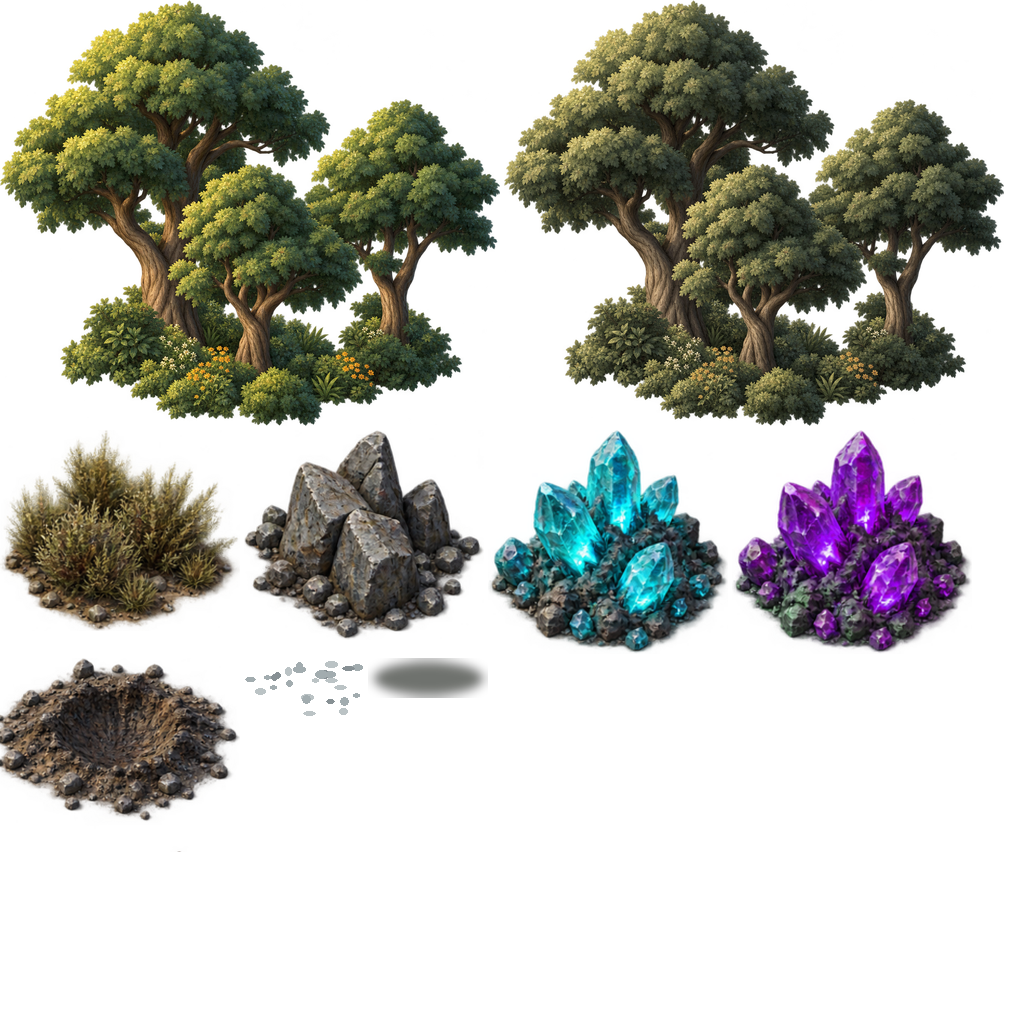
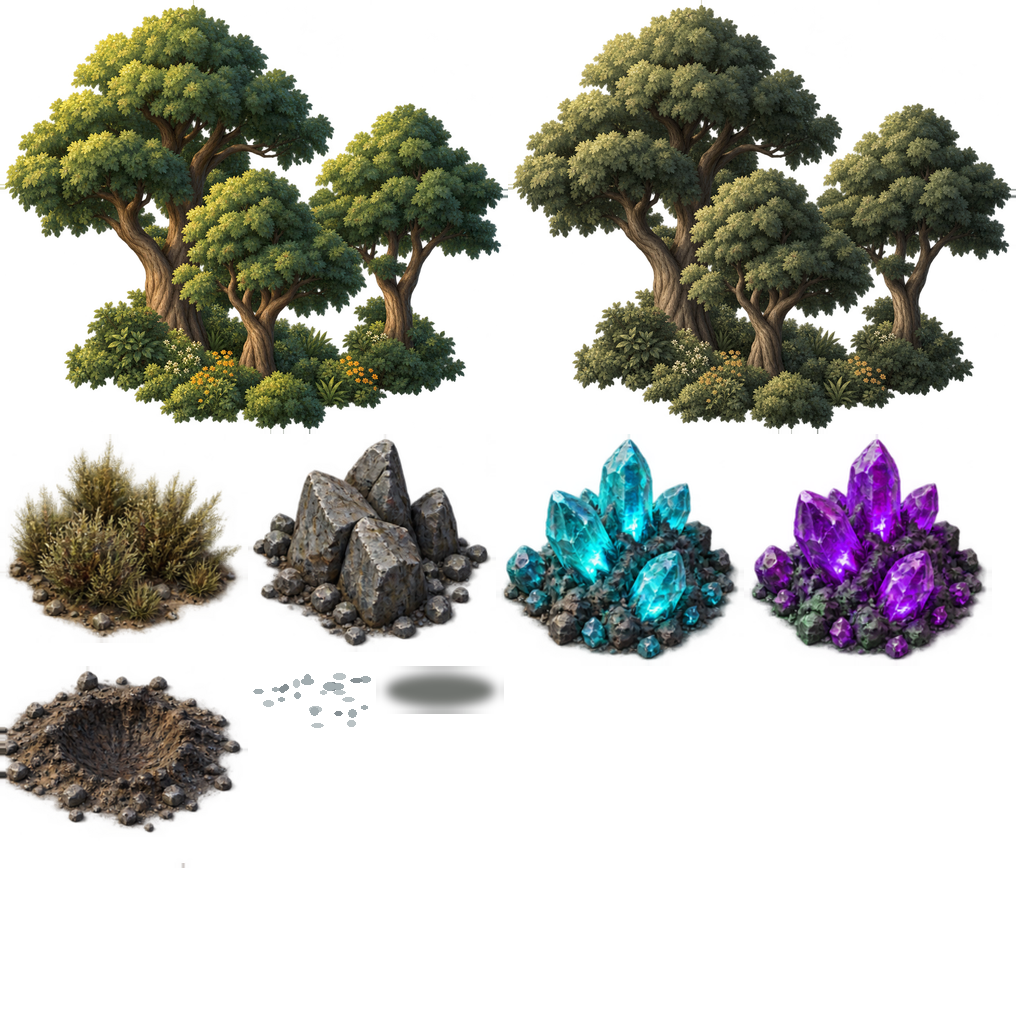
Kestrel props review minors: hover over props, atlas gutters, per-axis jitter
- Hover outline draws without a depth test at render_priority 1, so a tree
  card in front no longer hides it; prop decals sort at -1, under the grid,
  territory and hover overlays.
- Prop atlas: every sprite's edge pixels are extruded 4 px into its gutter
  and sprites sit 8 px apart, so mips down to 1/8 sample their own colour.
  Bake stays deterministic; unused imports and variables removed.
- Scatter: the firing test still uses the tile hash, but size, x and z
  jitter and flip now come from separately mixed draws (was overlapping
  bit windows of one hash).
- Task 6 minors: terrain streak and surf noise only run where water or sea
  is present (identical output); integer division in the sea-distance bake
  is marked intentional.

Changed region(s): [[0.0, 0.0, 1.0, 0.8125]]

diff --git a/tools/ui/build_prop_atlas.py b/tools/ui/build_prop_atlas.py
@@ -1,11 +1,12 @@
 """Bake the Kestrel prop atlas from the game's own painted sprites (spec addendum W5).
 Usage: python3 tools/ui/build_prop_atlas.py  (writes godot3d/assets/world/props_atlas.png and .json)"""
-import colorsys, json, pathlib, sys
+import colorsys, json, pathlib, random
 from PIL import Image, ImageDraw, ImageEnhance, ImageFilter
 
 REPO = pathlib.Path(__file__).absolute().parents[2]
 SIZE = 1024
-PAD = 4
+GUTTER = 4  # each sprite's edge pixels repeat this far out, so sampling across a sprite edge reads its own colour
+PAD = 2 * GUTTER  # between sprites: both gutters, so neighbours never bleed into each other down to the 1/8 mip
 # name: (source, target width, kind, sink as a fraction of the card height)
 SPRITES = {
     "forest": (REPO / "godot3d/assets/terrain/painterly/forest_cluster_v5.png", 500, "card", 0.10),
@@ -56,7 +57,6 @@ def hue_rotate(im, degrees):
 def pebbles(w):
     im = Image.new("RGBA", (w, w // 2), (0, 0, 0, 0))
     d = ImageDraw.Draw(im)
-    import random
     rng = random.Random(11)
     for _ in range(26):
         x, y = rng.randint(6, w - 6), rng.randint(4, w // 2 - 4)
@@ -71,9 +71,23 @@ def shadow(w):
     return im.filter(ImageFilter.GaussianBlur(5))
 
 
+def extrude(im, k):
+    """`im` with its edge pixels repeated `k` px outward on every side (corners take the corner pixel)."""
+    w, h = im.size
+    out = Image.new("RGBA", (w + 2 * k, h + 2 * k), (0, 0, 0, 0))
+    out.paste(im, (k, k))
+    out.paste(im.crop((0, 0, 1, h)).resize((k, h), Image.NEAREST), (0, k))
+    out.paste(im.crop((w - 1, 0, w, h)).resize((k, h), Image.NEAREST), (w + k, k))
+    out.paste(im.crop((0, 0, w, 1)).resize((w, k), Image.NEAREST), (k, 0))
+    out.paste(im.crop((0, h - 1, w, h)).resize((w, k), Image.NEAREST), (k, h + k))
+    for cx, cy, ox, oy in ((0, 0, 0, 0), (w - 1, 0, w + k, 0), (0, h - 1, 0, h + k), (w - 1, h - 1, w + k, h + k)):
+        out.paste(im.getpixel((cx, cy)), (ox, oy, ox + k, oy + k))
+    return out
+
+
 def build(png_out, json_out):
     images = {}
-    for name, (src, width, kind, sink) in SPRITES.items():
+    for name, (src, width, _kind, _sink) in SPRITES.items():
         if name == "forest_dry":
             images[name] = dry(images["forest"])
         elif name == "alloy":
@@ -86,14 +100,15 @@ def build(png_out, json_out):
             images[name] = fit(Image.open(src), width)
     atlas = Image.new("RGBA", (SIZE, SIZE), (0, 0, 0, 0))
     meta = {"size": [SIZE, SIZE], "sprites": {}}
-    x = y = row_h = 0
+    x = y = GUTTER
+    row_h = 0
     for name in SPRITES:
         im = images[name]
-        if x + im.width + PAD > SIZE:
-            x, y, row_h = 0, y + row_h + PAD, 0
-        if y + im.height > SIZE:
+        if x + im.width + GUTTER > SIZE:
+            x, y, row_h = GUTTER, y + row_h + PAD, 0
+        if y + im.height + GUTTER > SIZE:
             raise SystemExit("atlas overflow at " + name)
-        atlas.paste(im, (x, y))
+        atlas.paste(extrude(im, GUTTER), (x - GUTTER, y - GUTTER))
         _, _, kind, sink = SPRITES[name]
         meta["sprites"][name] = {"rect": [x, y, im.width, im.height], "uv": [x / SIZE, y / SIZE, im.width / SIZE, im.height / SIZE],
                                  "aspect": im.height / im.width, "sink": sink, "kind": kind}

diff --git a/tools/ui/test_build_prop_atlas.py b/tools/ui/test_build_prop_atlas.py
@@ -44,6 +44,25 @@ class AtlasTests(unittest.TestCase):
             alpha = self.img.crop((x, y, x + w, y + h)).getchannel("A")
             self.assertGreater(max(alpha.crop((0, h - 2, w, h)).getdata()), 0, name + " touches its bottom edge")
 
+    def test_gutters_are_wide_and_extruded(self):
+        """Each sprite's edge pixels repeat into a gutter of at least 4 px, and sprites sit at least 8 px apart, so the
+        zoomed-out mips (down to 1/8) sample the sprite's own colours instead of a neighbour's."""
+        rects = [s["rect"] for s in self.meta["sprites"].values()]
+        for i, a in enumerate(rects):
+            for b in rects[i + 1:]:
+                gap = max(b[0] - (a[0] + a[2]), a[0] - (b[0] + b[2]), b[1] - (a[1] + a[3]), a[1] - (b[1] + b[3]))
+                self.assertGreaterEqual(gap, 8)
+        px = self.img.load()
+        for name, (x, y, w, h) in ((n, s["rect"]) for n, s in self.meta["sprites"].items()):
+            self.assertTrue(x >= 4 and y >= 4 and x + w + 4 <= 1024 and y + h + 4 <= 1024, name)
+            for k in range(1, 5):
+                for yy in range(y, y + h, 7):
+                    self.assertEqual(px[x - k, yy], px[x, yy], name + " left gutter")
+                    self.assertEqual(px[x + w - 1 + k, yy], px[x + w - 1, yy], name + " right gutter")
+                for xx in range(x, x + w, 7):
+                    self.assertEqual(px[xx, y - k], px[xx, y], name + " top gutter")
+                    self.assertEqual(px[xx, y + h - 1 + k], px[xx, y + h - 1], name + " bottom gutter")
+
     def test_alloy_is_a_hue_rotated_ore(self):
         def mean_rgb(name):
             x, y, w, h = self.meta["sprites"][name]["rect"]
